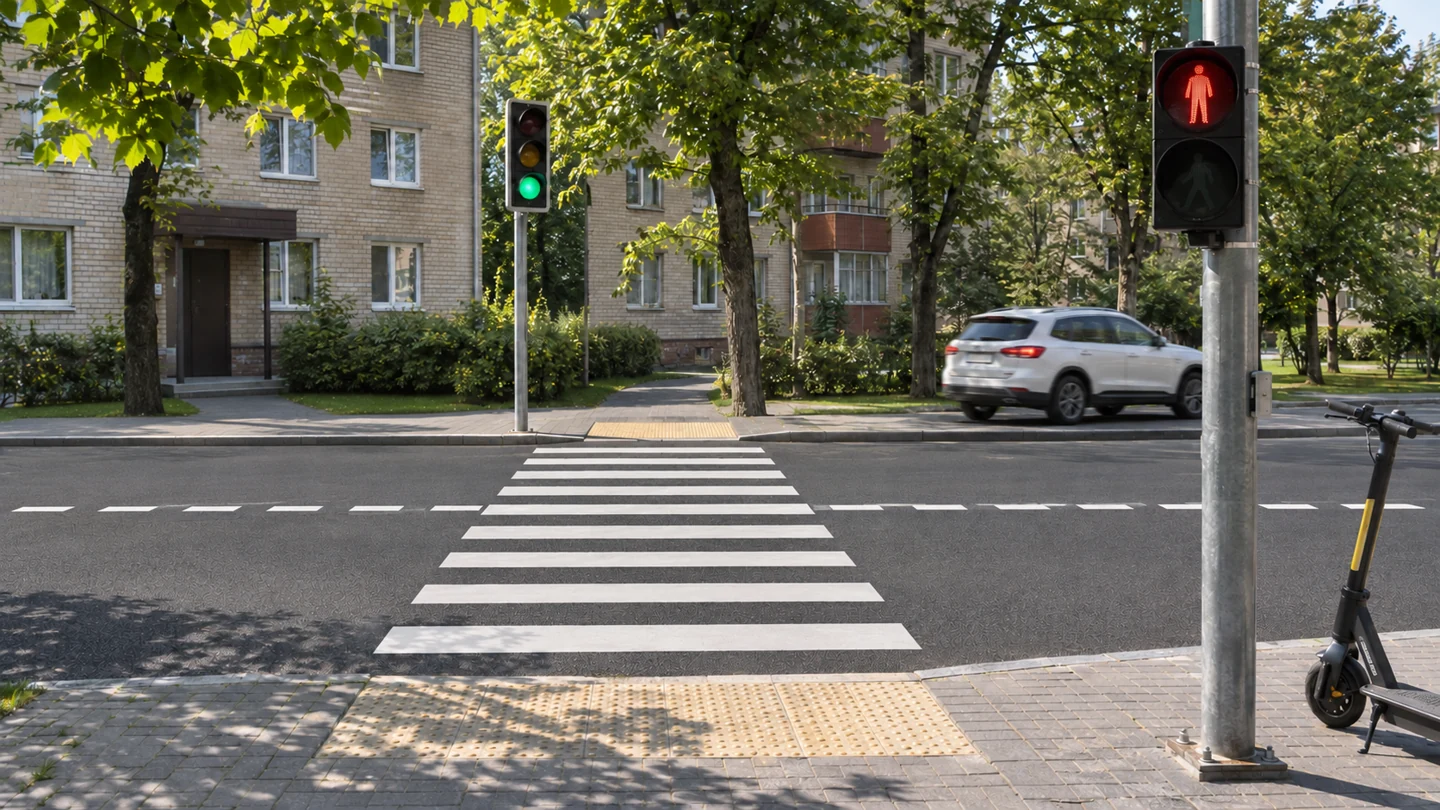
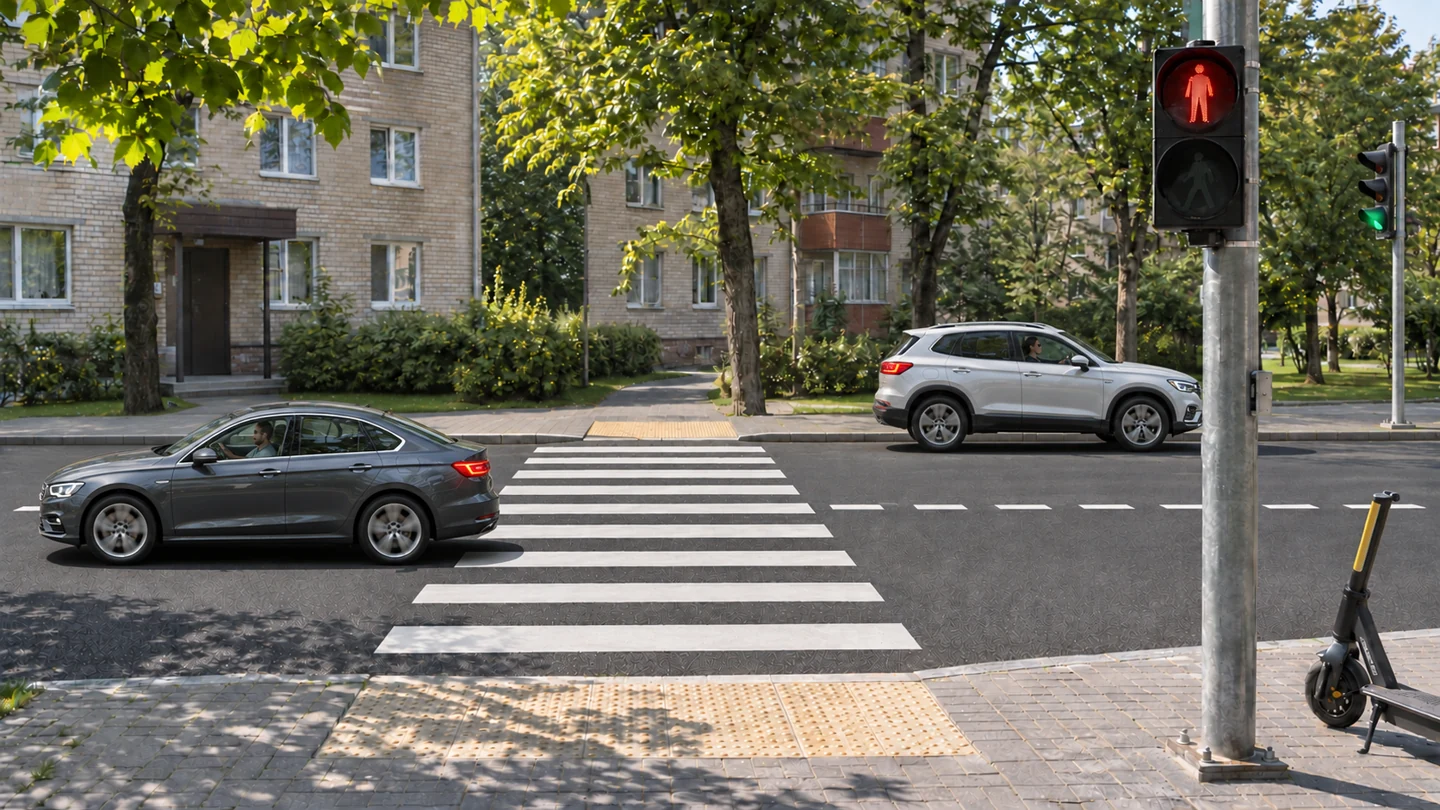
Correct road traffic and orient traffic lights

diff --git a/practice-demo.html b/practice-demo.html
@@ -48,7 +48,7 @@ main:has(#signal:not([hidden])) .feedback:not(:empty){margin-top:10px}main:has(#
 <g clip-path="url(#clear-driveway)" aria-hidden="true"><g id="exit-car"><ellipse cx="96" cy="91" rx="90" ry="5" fill="#172029" opacity=".32"/><image href="assets/practice-exit-car.webp" width="190" height="95"/></g></g>
 </svg></figure><div class="choices" id="places"></div></section>
 <section id="crossing" hidden><small>До секции · Сцена 3 из 6</small><h1 tabindex="-1">Друг уже на той стороне</h1><div class="cross-layout"><figure class="cross-frame"><img class="cross-photo" src="assets/rules-crossing.webp" alt="Подросток с самокатом у края тротуара перед зеброй" width="500" height="500"></figure><div class="cross-copy"><img class="cross-sign" src="assets/rules-signs/5.19.1.svg" alt="Знак пешеходного перехода" width="66" height="66"><p>Впереди зебра и вот такой знак. Светофора нет. Друг перешёл дорогу и машет тебе рукой.</p><h2>Как доберёшься до друга?</h2><div class="lines" id="cross-answers"></div></div></div></section>
-<section id="signal" hidden><small>До секции · Сцена 4 из 6</small><h1 tabindex="-1">Кому горит зелёный?</h1><div class="signal-layout"><figure class="signal-scene"><img src="assets/practice-traffic-crossing.webp" alt="Пешеходный переход: для пешеходов горит красный, для автомобилей — зелёный. Рядом стоит самокат."></figure><div class="signal-copy"><p>Вы дошли до следующего перекрёстка. Ты ведёшь самокат рядом. По дороге едет машина.</p><p>Друг спрашивает: «А нам уже можно?»</p><h2>Что ответишь другу?</h2><div class="lines" id="signal-answers"></div></div></div></section>
+<section id="signal" hidden><small>До секции · Сцена 4 из 6</small><h1 tabindex="-1">Кому горит зелёный?</h1><div class="signal-layout"><figure class="signal-scene"><img src="assets/practice-traffic-crossing.webp" alt="Пешеходный переход: для пешеходов горит красный, для автомобилей — зелёный. Рядом стоит самокат."></figure><div class="signal-copy"><p>Вы дошли до следующего перекрёстка. Ты ведёшь самокат рядом. По дороге едут машины.</p><p>Друг спрашивает: «А нам уже можно?»</p><h2>Что ответишь другу?</h2><div class="lines" id="signal-answers"></div></div></div></section>
 <section id="friend" hidden><small>До секции · Сцена 5 из 6</small><h1 tabindex="-1">«Подвези до входа»</h1><p>После перекрёстка вы с другом уже видите спортцентр. До тренировки две минуты. Твой самокат рассчитан на одного.</p><figure class="dialog"><span class="speaker">Друг</span><blockquote>«Подвезёшь меня до входа? А то пешком я к началу не успею»</blockquote></figure><h2>Что ответишь?</h2><div id="replies" class="lines"></div></section>
 <section id="parking" hidden><small>До секции · Сцена 6 из 6</small><h1 tabindex="-1">Где оставить самокат?</h1><p>Ты у спортцентра. Перед тренировкой осталось припарковать самокат. Выбери место на картинке.</p>
 <figure id="parking-map"><img src="assets/practice-parking.webp" alt="Вход в спортцентр. Слева стеклянные двери, посередине пандус, справа площадка со стойками и велосипедом." width="1100" height="733"/>
@@ -60,7 +60,7 @@ main:has(#signal:not([hidden])) .feedback:not(:empty){margin-top:10px}main:has(#
 </main><script>
 const el = id => document.getElementById(id);
 const startAnswers=['Надену шлем и световозвращающие элементы, проверю тормоз и работу фонаря.','Достаточно яркой куртки: шлем и фонарь не нужны.','Проверю заряд, а экипировку и фонарь оставлю дома.'];
-const signalAnswers=['«Подождём нашего зелёного. Потом посмотрим, безопасно ли идти».','«Машина едет — значит, и нам зелёный».','«Вроде никого нет. Успеем перейти сейчас».'];
+const signalAnswers=['«Подождём нашего зелёного. Потом посмотрим, безопасно ли идти».','«Машины едут — значит, и нам зелёный».','«Вроде никого нет. Успеем перейти сейчас».'];
 const places = ['Пока свободно, проеду как еду.','Сбавлю скорость перед выездом и посмотрю вправо.'];
 const crossingAnswers = ['Проеду по зебре медленно, со скоростью шага.','Раз друг махнул, можно сразу идти за ним, ведя самокат.','Сойду с самоката, посмотрю по сторонам и, когда будет безопасно, перейду пешком.'];
 const replies = ['«Давай. Только до поворота, дальше пешком».','«Давай я тренера предупрежу, что ты уже рядом. Я бы тебя подвёз, но самокат рассчитан на одного».','«Ладно, вставай. Поедем медленно».'];
